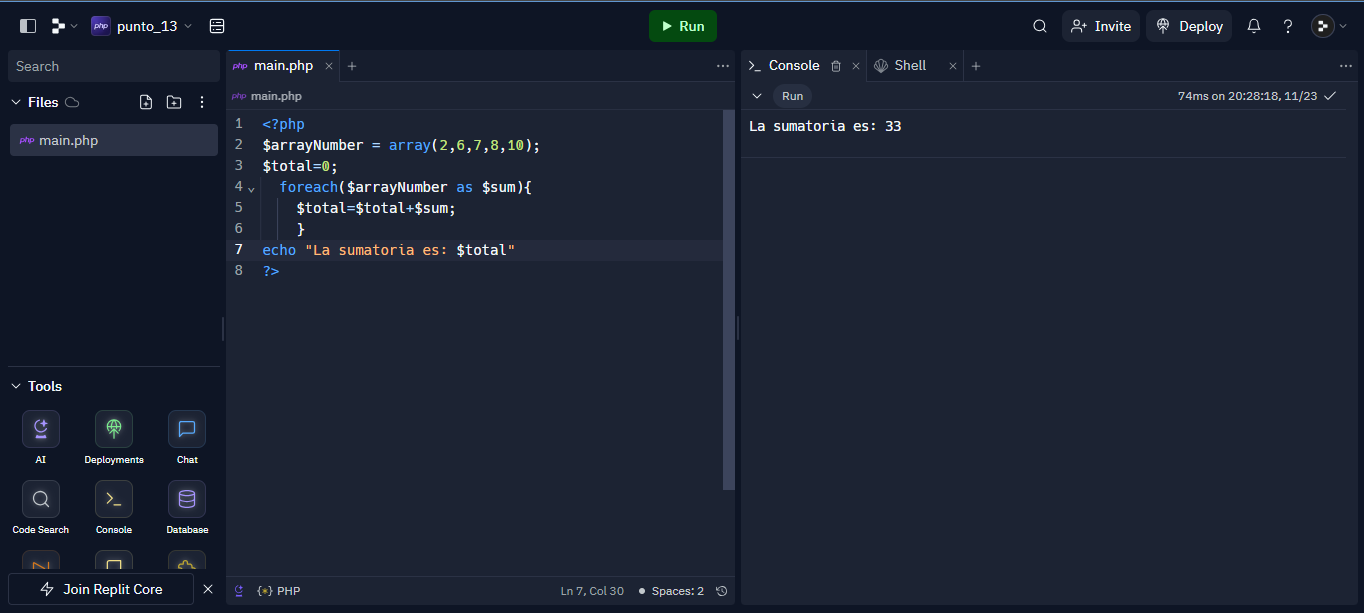
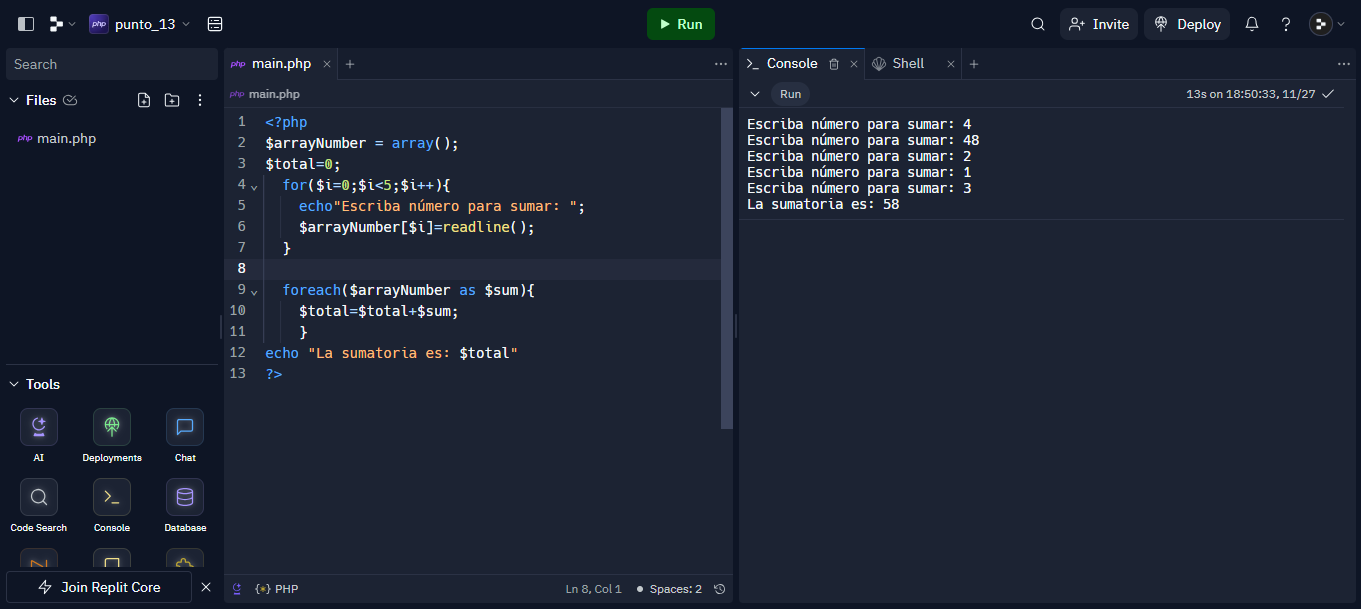
puntos finales

diff --git a/punto_15/operations.php b/punto_15/operations.php
@@ -1,0 +1,46 @@
+<?php
+function getNumber(){
+  echo "Ingrese un numero: \n";
+  return readline();
+}
+function showMenu(){
+  echo "Digite el número de alguna de las siguientes opciones: \n";
+  echo "1. Sumar \n";
+  echo "2. Restar \n";
+  echo "3. Multiplicar \n";
+  echo "4. Dividir \n";
+  return readline();
+}
+
+function operator($x,$y,$option){
+  switch($option){
+    case "1":
+      return add($x,$y); 
+      break;
+    case "2":
+      return sub($x,$y); 
+      break;
+    case "3":
+      return dot($x,$y); 
+      break;
+    case "4":
+      return split($x,$y); 
+      break;
+    default:
+      echo "Operación no válida \n";
+      break;
+  }
+}
+function add($x,$y){
+  return $x+$y;
+}
+function sub($x,$y){
+  return $x-$y;
+}
+function dot($x,$y){
+  return $x*$y;
+}
+function split($x,$y){
+  return $x/$y;
+}
+?>

diff --git a/punto_14/passwordValidation.php b/punto_14/passwordValidation.php
@@ -1,0 +1,30 @@
+<?php
+
+function leghtValidation($value){
+  if(strlen($value)>=8){
+    return true;
+  }  
+  else{
+    echo "Ingrese más de ocho caracteres";
+  }
+}
+
+function upperLetterValidation($value){
+  $array=str_split($value);
+  foreach($array as $mayus){
+    if(ctype_upper($mayus)){
+      return true;
+    }
+  }
+  echo "Ingrese al menos una mayuscula ";
+}
+function numberValidation($value){
+  $array=str_split($value);
+  foreach($array as $number){
+    if(is_numeric($number)){
+      return true;
+    }
+  }
+  echo "Ingrese al menos un número";
+}
+?>

diff --git a/punto_15/index.php b/punto_15/index.php
@@ -1,0 +1,15 @@
+<?php
+include "./operations.php";
+$numberOne=0;
+$numberTwo=0;
+$operation="";
+
+$numberOne=getNumber();
+$numberTwo=getNumber();
+
+$operation=showMenu();
+
+$result= operator($numberOne, $numberTwo, $operation);
+
+echo "El resultado es: ".$result;
+?>

diff --git a/punto_13/index.php b/punto_13/index.php
@@ -1,6 +1,11 @@
 <?php
-$arrayNumber = array(2,6,7,8,10);
+$arrayNumber = array();
 $total=0;
+  for($i=0;$i<5;$i++){
+    echo"Escriba número para sumar: ";
+    $arrayNumber[$i]=readline();
+  }
+
   foreach($arrayNumber as $sum){
     $total=$total+$sum;
     }

diff --git a/punto_14/index.php b/punto_14/index.php
@@ -1,0 +1,10 @@
+<?php
+include "./passwordValidation.php";
+
+echo "Ingrese su contraseña: ";
+$password=readline();
+
+if(leghtValidation($password) and upperLetterValidation($password) and numberValidation($password)){
+  echo "Contraseña válida";
+}
+?>
